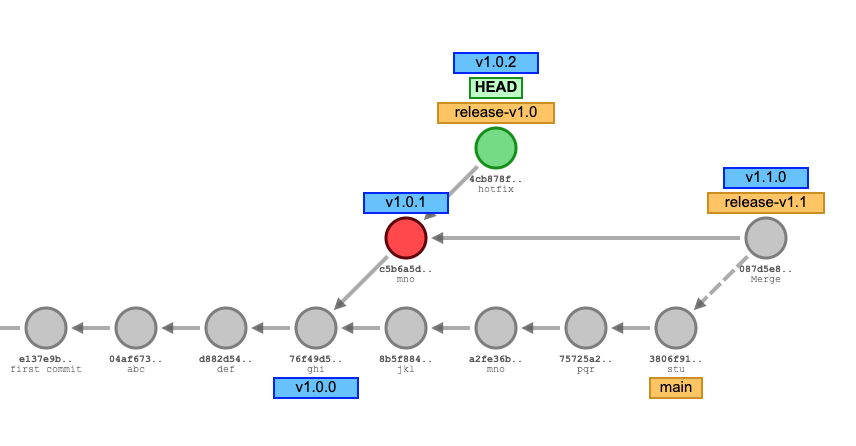
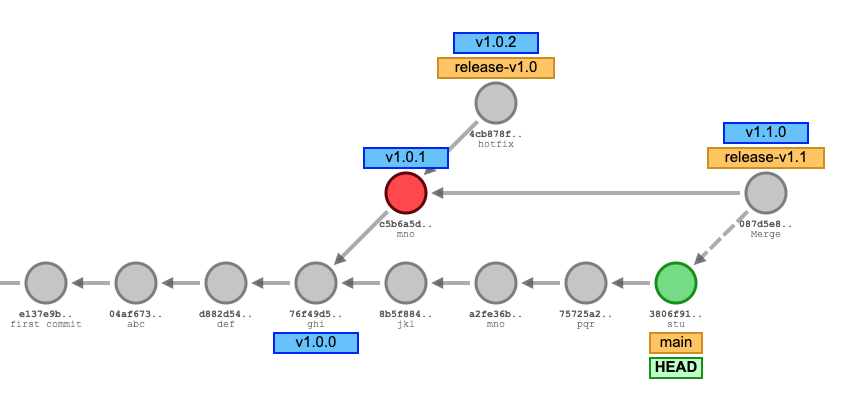
Code review

Changed region(s): [[0.0, 0.0583, 0.9811, 0.932]]

diff --git a/development/adr/0009-versioning-strategy.md b/development/adr/0009-versioning-strategy.md
@@ -1,4 +1,4 @@
-# **ADR-009: Versioning strategy**
+# **ADR-0009: Versioning strategy**
 
 ## Status
 
@@ -13,7 +13,6 @@ or for feature planing. This ADR is focused on the Git implementation of our ver
 ## Decision
 
 The base of every versioning strategy is the version number. We are using [Semantic Versioning 2.0.0](https://semver.org/) with version prefix of `v`.
-Our Git strategy is based on the branching and versioning strategy of [Dapr](https://github.com/dapr/dapr).
 
 - New changes are comitted to the `main` branch.
 - For every `MINOR` release, we create a new branch `release-v[MAJOR].[MINOR]` (_release branch_) based on the previous release on the same `MAJOR` track.
@@ -25,6 +24,20 @@ Our Git strategy is based on the branching and versioning strategy of [Dapr](htt
 - If a change needs to be made only for a specific version, it can be made on the release branch 
 
 ![](../../assets/versioning-strategy-visualization.png)
+_A representation of the described flow via https://git-school.github.io/visualizing-git/._ 
+- _blue_: tags
+- _orange_: branches
+- _red_: cherry-picks
+
+The development has taken place on `main`.
+The `release-v1.0` branch was created initially on commit `ghi` and tagged with `v1.0.0`.
+After this release, more commits were added. The commit `mno` of `main` was cherry-picked
+in `release-v1.0` and tagged with `v1.0.1` as a bugfix. The version specific bugfix was done with the `hotfix` commit
+and released as `v1.0.2`. `main` has evolved further with new backward compatible features and bugfixes.
+These new commits were merged in a newly created branch `release-v1.1` of `release-v1.0`.
+A new release was declared via the tag `v1.1.0`.
+
+Our Git strategy is based on the branching and versioning strategy of [Dapr](https://github.com/dapr/dapr).
 
 ## Consequences
 
